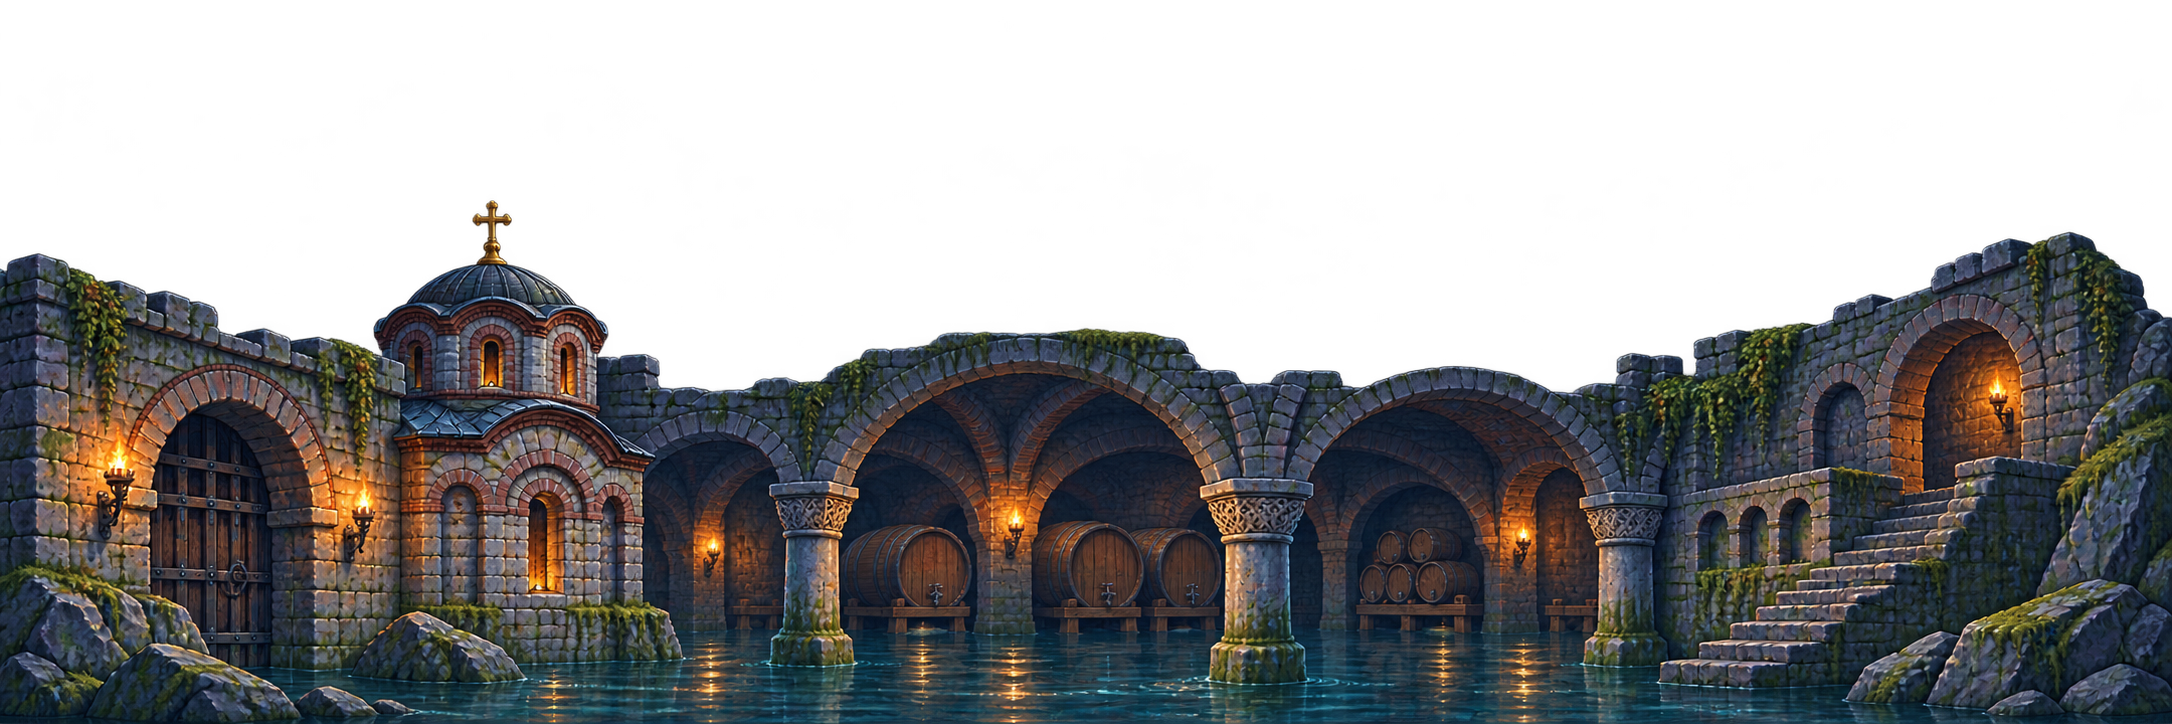
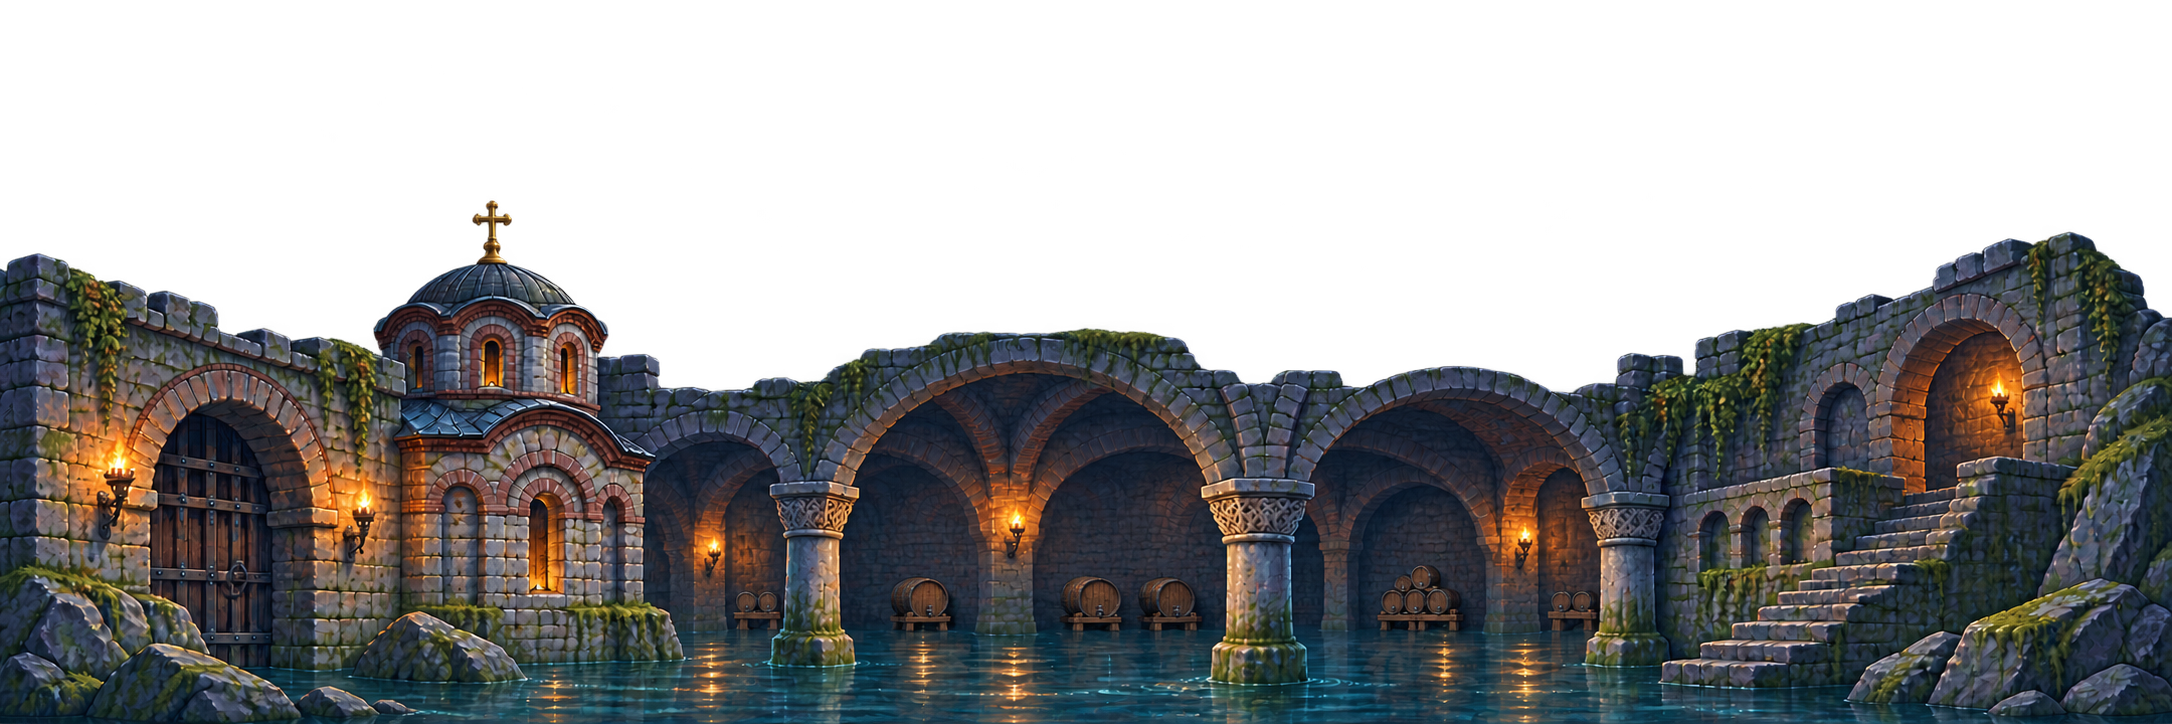
Podrum: nove pozadine u srazmeri (DOPUNA-32)
Codex je preslikao podrum-near i podrum-mid za dan, noć i oluju: burad i police su manji od Marka, a lukovi i vrata viši.
Stare slike su u art/world-pack-01/staro/. Uz to je stigao spisak nesrazmera za ostalih 11 pohoda.
Siluete kočeva su sačuvane, ali još nisu u igri: biće zamenjene slikama u boji.

Changed region(s): [[0.0, 0.2735, 1.0, 1.0], [0.4627, 0.9116, 0.4936, 1.0], [0.0925, 0.7901, 0.1234, 0.8204]]

diff --git a/dist/test.html b/dist/test.html
@@ -43,6 +43,7 @@ a.t kbd{font:700 12px Arial;background:#1a1712;border:1px solid #8a7448;border-r
 <a class="t" href="index.html?go=hasan"><b>Tvrđava: Hasan-aga Oklopnik</b><span>Bos Tvrđave sada ima svoj crtež: pancir od pločica, šlem sa šiljkom, okrugli štit i topuz. Juriša pognute glave kao ovan; navuci ga da se zabije u stub, pa ga udri dok je ošamućen.</span></a>
 <a class="t" href="index.html?go=ognjeni"><b>Podrum: Ognjeni aga</b><span>Bos Podruma sada ima svoj crtež: garav, sa buktinjom i bakarnim ćupom ulja na leđima. Kad prospe ulje, skači na grede; posle stoji povijen i zadihan, i tada ga udri.</span></a>
 <a class="t" href="index.html?go=vino"><b>Podrum: carevi čauši i vino</b><span>Car je zabranio vino uz ramazan. Čauši idu da izbiju slavinu na Markovoj bačvi; ako stignu, pročitaju ti carev ferman nad prolivenim vinom. Stigni ih na vreme, pa pritisni E kraj bačve: Marko pije, bes ti se napuni, a čutura natoči.</span></a>
+<a class="t" href="index.html?go=vino"><b>Podrum: nove pozadine</b><span>Codex je preslikao Podrum (dan, noć i oluja): burad i police u pozadini su sada manji od Marka, a lukovi i vrata viši.</span></a>
 <a class="t" href="index.html?go=sultan"><b>Podrum: sto dukata od cara</b><span>Kod poslednje bačve ti niko ne brani. Popij (E), pa dolazi carev glasnik sa sto dukata: „Idi, Marko, te se napij vina!”</span></a>
 <a class="t" href="index.html?go=sirotinja"><b>Selo: sirotinja kraj puta</b><span>Po pesmi „Marko Kraljević i beg Kostadin”: Marko poštuje sirotinju. Kraj puta sede starica i siroče. Daj im dukate (E), pa ustanu i blagoslove te: rane zarastu, bes poraste, a snaga ti raste neko vreme. U toj sobi nema Turaka.</span></a>
 <a class="t" href="index.html?go=svatovi"><b>Ruševine: mladenci beže u slavlju</b><span>Razbij poslednji kavez: mlada i mladoženja skaču od sreće kraj kola, pa otrče niz drum, a svatovi odigraju za njima. Razbijen kavez ostaje iste veličine kao ceo.</span></a>

diff --git a/art/world-pack-03/export-dopuna32.py b/art/world-pack-03/export-dopuna32.py
@@ -1,0 +1,24 @@
+from pathlib import Path
+from PIL import Image
+import json,sys,shutil,hashlib,numpy as np
+w=Path(__file__).resolve().parent;root=w.parents[1];name,source=sys.argv[1:3]
+j=next(j for j in json.loads((w/'prompts-dopuna32.json').read_text())['jobs'] if j['id']==name)
+run=w/'sources/dopuna32'/name;run.mkdir(parents=True,exist_ok=True);raw=run/'generated.png';assert not raw.exists();shutil.copy2(source,raw)
+im=Image.open(raw).convert('RGBA');assert im.getchannel('A').getextrema()[0]==0
+if j['kind']=='layer':
+ out=w.parent/'world-pack-01/assets'/(name+'.png');old=Image.open(out).convert('RGBA');size=old.size
+ im=im.resize(size,Image.Resampling.LANCZOS)
+ # Keep all previously transparent holes clear after canvas registration.
+ alpha=np.minimum(np.array(im.getchannel('A')),np.array(old.getchannel('A')));im.putalpha(Image.fromarray(alpha))
+ backup=w.parent/'world-pack-01/staro'/(name+'.png');assert out.resolve().is_relative_to(root.resolve()) and backup.resolve().is_relative_to(root.resolve())
+ assert not backup.exists(),'Never overwrite archived original';backup.parent.mkdir(parents=True,exist_ok=True)
+ oldhash=hashlib.sha256(out.read_bytes()).hexdigest();out.replace(backup);assert hashlib.sha256(backup.read_bytes()).hexdigest()==oldhash
+ im.save(out);assert np.all(np.array(im.getchannel('A'))[np.array(old.getchannel('A'))==0]==0)
+ (run/'qa.json').write_text(json.dumps({'size':size,'oldSha256':oldhash,'oldFile':str(backup.relative_to(root)),'originalTransparentPixelsPreserved':True},indent=2))
+ message=f'nov sloj{size[0]}x{size[1]} u art/world-pack-01/assets/{name}.png; original premesten u art/world-pack-01/staro/{name}.png (SHA256 potvrda); originalni providni otvori sacuvani. Bure cilj do '+('80px near.' if '-near' in name else '48px mid.')
+else:
+ out=w/(name+'.png');assert not out.exists();b=im.getchannel('A').point(lambda v:255 if v>16 else 0).getbbox();im=im.crop(b);size=tuple(j['size']);im.thumbnail((size[0]-24,size[1]-40),Image.Resampling.LANCZOS)
+ final=Image.new('RGBA',size);final.paste(im,((size[0]-im.width)//2,size[1]-24-im.height));final.save(out);im=final
+ message=f'PNG RGBA{size[0]}x{size[1]}, tamna udaljena silueta bez krvavih detalja, oslonac dole u sredini y{size[1]-25}, art/world-pack-03/{name}.png.'
+with (w/'STATUS-ANIMACIJE.md').open('a',encoding='utf8') as f:f.write(f'\nDOPUNA-32: {name} — GOTOVO; {message} Ugradjeni image_gen; prompts-dopuna32.json; izvor sources/dopuna32/{name}/.\n')
+print('Saved and logged:',name)

diff --git a/art/world-pack-03/review-sheets-dopuna32.py b/art/world-pack-03/review-sheets-dopuna32.py
@@ -1,0 +1,17 @@
+from pathlib import Path
+from PIL import Image,ImageDraw
+import json,hashlib
+w=Path(__file__).resolve().parent;a=w.parent/'world-pack-01/assets';out=w/'sources/dopuna32/review';out.mkdir(parents=True,exist_ok=True)
+themes=sorted({p.name.split('-')[0] for p in a.glob('*-near.png')}-{'podrum'});records=[]
+for group in range(3):
+ batch=themes[group*4:(group+1)*4];board=Image.new('RGBA',(1448,len(batch)*3*266),(29,39,47,255));d=ImageDraw.Draw(board)
+ for ti,t in enumerate(batch):
+  for vi,v in enumerate(['','-night','-storm']):
+   for col,layer in enumerate(['near','mid']):
+    p=a/(t+'-'+layer+v+'.png');im=Image.open(p).convert('RGBA');records.append({'file':p.name,'sha256':hashlib.sha256(p.read_bytes()).hexdigest(),'size':im.size})
+    x,y=col*724,(ti*3+vi)*266;im=im.resize((724,241),Image.Resampling.LANCZOS);board.alpha_composite(im,(x,y+25));d.text((x+8,y+5),p.name,fill='white')
+    # Comparison ruler: Marko145 near,87 mid at original724-height.
+    h=round((145 if layer=='near' else 87)*241/724);d.line((x+700,y+256,x+700,y+256-h),fill=(240,70,70),width=2)
+ board.convert('RGB').save(out/f'overview-{group+1}.jpg')
+(out/'inventory.json').write_text(json.dumps(records,indent=2))
+print(len(themes),'themes;',len(records),'layers inventoried')

diff --git a/art/world-pack-03/STATUS-ANIMACIJE.md b/art/world-pack-03/STATUS-ANIMACIJE.md
@@ -512,3 +512,51 @@ DOPUNA-30 ZAVRSENO: 6/6 klipova, 38 kadrova. Provera izvoza prosla. Ugradjeni im
 
 DOPUNA-30 ZAVRSENO: 6/6 klipova, 38 kadrova. Provera izvoza prosla. Ugradjeni image_gen, jedan pokusaj po stavci. Katalog catalog-dopuna30.json, promptovi prompts-dopuna30.json, pregled art/animation-pack-04/preview-dopuna30.png. Pri integraciji primeniti manifest.renderScale oko renderAnchor; zum prema putnica-idle, ciljna visina odraslog 405px, oslonac (256,488); dva lika zajedno u oba klipa sirotinje.
 DOPUNA-30: tehnicki uklonjen magenta preliv na velu u oba klipa mlade, bez ponovnog generisanja; originalni izvozi sacuvani u sources/<klip>/before-veil-despill/. Atlas i GIF ponovo izvezeni, provera ponovljena uspesno.
+
+DOPUNA-31: pauza-logor.png — GOTOVO; art/world-pack-03/pauza-logor.png. 16 kadrova768x512, traka12288x512 na vrhu paketa; atlas/manifest/frame_layout/frames/preview.gif u art/animation-pack-04/assets/pauza-logor-16/. Prethodni klip8kad. sacuvan. Petlja12fps. Ugradjeni image_gen, jedan pokusaj; prompts-dopuna31.json, izvor sources/dopuna31/pauza-logor/.
+
+DOPUNA-31: ram-kontrole.png — GOTOVO; art/world-pack-03/ram-kontrole.png. PNG RGBA1500x1000, providnost van siluete, prazan prostor za tekst; stil tamni orah/zlatni detalji, slikano mat. Ugradjeni image_gen, jedan pokusaj; prompts-dopuna31.json, izvor sources/dopuna31/ram-kontrole/.
+
+DOPUNA-31: ram-podesavanja.png — GOTOVO; art/world-pack-03/ram-podesavanja.png. PNG RGBA900x1180, providnost van siluete, prazan prostor za tekst; stil tamni orah/zlatni detalji, slikano mat. Ugradjeni image_gen, jedan pokusaj; prompts-dopuna31.json, izvor sources/dopuna31/ram-podesavanja/.
+
+DOPUNA-31: polje-izbor.png — GOTOVO; art/world-pack-03/polje-izbor.png. PNG RGBA640x72, providnost van siluete, prazan prostor za tekst; stil tamni orah/zlatni detalji, slikano mat. Ugradjeni image_gen, jedan pokusaj; prompts-dopuna31.json, izvor sources/dopuna31/polje-izbor/.
+
+DOPUNA-31: klizac-staza.png — GOTOVO; art/world-pack-03/klizac-staza.png. PNG RGBA640x28, providnost van siluete, prazan prostor za tekst; stil tamni orah/zlatni detalji, slikano mat. Ugradjeni image_gen, jedan pokusaj; prompts-dopuna31.json, izvor sources/dopuna31/klizac-staza/.
+
+DOPUNA-31: klizac-dugme.png — GOTOVO; art/world-pack-03/klizac-dugme.png. PNG RGBA48x48, providnost van siluete, prazan prostor za tekst; stil tamni orah/zlatni detalji, slikano mat. Ugradjeni image_gen, jedan pokusaj; prompts-dopuna31.json, izvor sources/dopuna31/klizac-dugme/.
+
+DOPUNA-31 ZAVRSENO: 6/6 fajlova, logor16kad768x512 (traka12288x512) +5 UI PNG. Dimenzije/providnost/manifest/atlas/GIF provereni. Jedan image_gen pokusaj po fajlu. Katalog catalog-dopuna31.json, preview-dopuna31-ui.jpg; animacija art/animation-pack-04/assets/pauza-logor-16/preview.gif. Stariji8kad. klip netaknut.
+
+DOPUNA-32: podrum-near — GOTOVO; nov sloj2172x724 u art/world-pack-01/assets/podrum-near.png; original premesten u art/world-pack-01/staro/podrum-near.png (SHA256 potvrda); originalni providni otvori sacuvani. Bure cilj do 80px near. Ugradjeni image_gen; prompts-dopuna32.json; izvor sources/dopuna32/podrum-near/.
+
+DOPUNA-32: podrum-near-night — GOTOVO; nov sloj2172x724 u art/world-pack-01/assets/podrum-near-night.png; original premesten u art/world-pack-01/staro/podrum-near-night.png (SHA256 potvrda); originalni providni otvori sacuvani. Bure cilj do 80px near. Ugradjeni image_gen; prompts-dopuna32.json; izvor sources/dopuna32/podrum-near-night/.
+
+DOPUNA-32: podrum-near-storm — GOTOVO; nov sloj2172x724 u art/world-pack-01/assets/podrum-near-storm.png; original premesten u art/world-pack-01/staro/podrum-near-storm.png (SHA256 potvrda); originalni providni otvori sacuvani. Bure cilj do 80px near. Ugradjeni image_gen; prompts-dopuna32.json; izvor sources/dopuna32/podrum-near-storm/.
+
+DOPUNA-32: podrum-mid — GOTOVO; nov sloj2172x724 u art/world-pack-01/assets/podrum-mid.png; original premesten u art/world-pack-01/staro/podrum-mid.png (SHA256 potvrda); originalni providni otvori sacuvani. Bure cilj do 48px mid. Ugradjeni image_gen; prompts-dopuna32.json; izvor sources/dopuna32/podrum-mid/.
+
+DOPUNA-32: podrum-mid-night — GOTOVO; nov sloj2172x724 u art/world-pack-01/assets/podrum-mid-night.png; original premesten u art/world-pack-01/staro/podrum-mid-night.png (SHA256 potvrda); originalni providni otvori sacuvani. Bure cilj do 48px mid. Ugradjeni image_gen; prompts-dopuna32.json; izvor sources/dopuna32/podrum-mid-night/.
+
+DOPUNA-32: podrum-mid-storm — GOTOVO; nov sloj2172x724 u art/world-pack-01/assets/podrum-mid-storm.png; original premesten u art/world-pack-01/staro/podrum-mid-storm.png (SHA256 potvrda); originalni providni otvori sacuvani. Bure cilj do 48px mid. Ugradjeni image_gen; prompts-dopuna32.json; izvor sources/dopuna32/podrum-mid-storm/.
+
+DOPUNA-32: podrum-mid-night dodatno korigovan centralni veliki sud na malo bure; prvi izvoz sacuvan u sources/dopuna32/podrum-mid-night/initial-export.png; izvorni original ostaje u world-pack-01/staro/.
+
+DOPUNA-32: PREGLED OSTALIH POHODA ? GOTOVO, 66 slojeva, samo spisak; bez izmena slika. Vizuelna procena, otvori/ograde u panorami uslovni nalazi; precizna potvrda zahteva njihovu razmeru pri prikazu u igri.
+DOPUNA-32 pregled: **klisura** — near (dan/noć/oluja): vrata građevina na oba boka i ograda visećeg mosta deluju sitno prema reperu Marko145px; mid: otvori naselja levo/desno još sitniji od repera87px. Nije uočeno preveliko bure ili polica.
+DOPUNA-32 pregled: **manastir** — near: portali manastira desno, naročito dan/noć, deluju premali za Marka145px ako su pristupačan prostor; mid: vrata unutar manastirskog kompleksa su minijaturna prema87px. Velika stabla i kule nisu sama po sebi greška razmere.
+DOPUNA-32 pregled: **mocvara** — near: otvori kuća/leva arkada i ograda drvenih prelaza zahtevaju proveru jer su niski prema145px; mid: mala vrata ruševina i kućica prema87px. Nema jasno prevelikog skladišnog predmeta.
+DOPUNA-32 pregled: **pecina** — near: burad ispred desnog rudničkog ulaza (dan, takođe noć/oluja) jesu kandidati za proveru granice80px; mid: burad u levim udubljenjima/objektima prema48px. Vrata kućica sitnija od velikih pećinskih otvora; ne smanjivati same pećinske svodove.
+DOPUNA-32 pregled: **prevoj** — near: otvori desne kule i mala vrata uz stazu deluju premali za145px; mid: vrata kuća i prolazi zidina prema87px. Kamenje, sneg i visina kula nemaju pouzdan problem razmere.
+DOPUNA-32 pregled: **reka** — near: vrata i prozori mlinova na levom/desnom boku, kao i niska ograda prelaza, deluju minijaturno prema145px; mid: vrata mlina levo i otvori mosta prema87px. Vodeni točak može biti velik i nije automatski nesrazmeran.
+DOPUNA-32 pregled: **rudnik** — near: rudarska kolica i burad uz šine, levo i desno, proveriti prema80px; mid: kolica ispred levog ulaza i burad uz desnu građevinu prema48px. Predmeti su ovde najjasniji kandidati za merenje; sami rudnički portali treba da ostanu viši od lika.
+DOPUNA-32 pregled: **rusevine** — near: mali niski lukovi u nizu uz drum levo/sredina deluju niži od145px; mid: niski arkadni prolazi i ulazi manjih zdanja prema87px. Veliki obrušeni svodovi i tornjevi mogu ostati veliki.
+DOPUNA-32 pregled: **selo** — near: vrata kuća na krajevima i seoske ograde duž puta deluju premali u odnosu na145px; mid: vrata i ograde sela ispod crkve prema87px. Nije uočen predmet koji bi trebalo smanjivati kao podrumsku burad.
+DOPUNA-32 pregled: **suma** — near: mala samostalna kamena vrata desno i vrata kuće deluju premali prema145px; mid: ulazi kuća levo/desno i niski luk mosta prema87px. Deblo i korenje smeju biti masivni; njih ne tretirati kao burad.
+DOPUNA-32 pregled: **tvrdjava** — near: bočni mali prolazi i palisadna ograda/šiljci pri dnu deluju sitno prema145px; mid: ulazi tvrđave i drvena ograda opsadnih položaja prema87px. Tornjevi, bedemi i veliki opsadni uređaji nisu automatski preveliki.
+
+DOPUNA-32: prop-kolci-glave — GOTOVO; PNG RGBA768x768, tamna udaljena silueta bez krvavih detalja, oslonac dole u sredini y743, art/world-pack-03/prop-kolci-glave.png. Ugradjeni image_gen; prompts-dopuna32.json; izvor sources/dopuna32/prop-kolci-glave/.
+DOPUNA-32: prop-kolac-nabijen — NIJE USPELO; image_gen HTTP400 moderation_blocked, safety_violations violence/self-harm (output moderation), request d18943ec-0212-4baf-b1db-b38178e17c00. PNG nije napravljen; prompt sacuvan u prompts-dopuna32.json. Nije limit kredita.
+
+DOPUNA-32: prop-kolci-red — GOTOVO; PNG RGBA1536x512, tamna udaljena silueta bez krvavih detalja, oslonac dole u sredini y487, art/world-pack-03/prop-kolci-red.png. Ugradjeni image_gen; prompts-dopuna32.json; izvor sources/dopuna32/prop-kolci-red/.
+
+DOPUNA-32 REZULTAT: 6/6 slojeva Podruma gotovo, originali u world-pack-01/staro/ potvrdaSHA256, providni otvori sacuvani. Pregled11pohoda/66slojeva samo spisak, njihove slike potvrdeno nepromenjene. Kolci2/3: prop-kolci-glave i prop-kolci-red gotovo; prop-kolac-nabijen odbio image_gen safety filter violence/self-harm. Katalog catalog-dopuna32.json; provere validation-dopuna32.json; pregledi preview-dopuna32-podrum.jpg i preview-dopuna32-kolci.jpg.

diff --git a/art/world-pack-03/pregled-srazmere-dopuna32.md b/art/world-pack-03/pregled-srazmere-dopuna32.md
@@ -1,0 +1,15 @@
+# Pregled ostalih pohoda — samo spisak
+
+Pregledana su 66 PNG sloja: near/mid za 11 pohoda, dan/noć/oluja. Referentna visina odraslog lika: near145px, mid87px na sloju724px visine. Granice bureta: near80px, mid48px. Ovo su vizuelni nalazi i kandidati za proveru u igri, ne izmerene dimenzije svih predmeta. Arhitektura naslikana kao daleka panorama može namerno biti sitna; ako se koristi kao neposredan prostor istog sloja, pomenuti otvori nisu u srazmeri. Slike nisu menjane.
+
+- **klisura** — near (dan/noć/oluja): vrata građevina na oba boka i ograda visećeg mosta deluju sitno prema reperu Marko145px; mid: otvori naselja levo/desno još sitniji od repera87px. Nije uočeno preveliko bure ili polica.
+- **manastir** — near: portali manastira desno, naročito dan/noć, deluju premali za Marka145px ako su pristupačan prostor; mid: vrata unutar manastirskog kompleksa su minijaturna prema87px. Velika stabla i kule nisu sama po sebi greška razmere.
+- **mocvara** — near: otvori kuća/leva arkada i ograda drvenih prelaza zahtevaju proveru jer su niski prema145px; mid: mala vrata ruševina i kućica prema87px. Nema jasno prevelikog skladišnog predmeta.
+- **pecina** — near: burad ispred desnog rudničkog ulaza (dan, takođe noć/oluja) jesu kandidati za proveru granice80px; mid: burad u levim udubljenjima/objektima prema48px. Vrata kućica sitnija od velikih pećinskih otvora; ne smanjivati same pećinske svodove.
+- **prevoj** — near: otvori desne kule i mala vrata uz stazu deluju premali za145px; mid: vrata kuća i prolazi zidina prema87px. Kamenje, sneg i visina kula nemaju pouzdan problem razmere.
+- **reka** — near: vrata i prozori mlinova na levom/desnom boku, kao i niska ograda prelaza, deluju minijaturno prema145px; mid: vrata mlina levo i otvori mosta prema87px. Vodeni točak može biti velik i nije automatski nesrazmeran.
+- **rudnik** — near: rudarska kolica i burad uz šine, levo i desno, proveriti prema80px; mid: kolica ispred levog ulaza i burad uz desnu građevinu prema48px. Predmeti su ovde najjasniji kandidati za merenje; sami rudnički portali treba da ostanu viši od lika.
+- **rusevine** — near: mali niski lukovi u nizu uz drum levo/sredina deluju niži od145px; mid: niski arkadni prolazi i ulazi manjih zdanja prema87px. Veliki obrušeni svodovi i tornjevi mogu ostati veliki.
+- **selo** — near: vrata kuća na krajevima i seoske ograde duž puta deluju premali u odnosu na145px; mid: vrata i ograde sela ispod crkve prema87px. Nije uočen predmet koji bi trebalo smanjivati kao podrumsku burad.
+- **suma** — near: mala samostalna kamena vrata desno i vrata kuće deluju premali prema145px; mid: ulazi kuća levo/desno i niski luk mosta prema87px. Deblo i korenje smeju biti masivni; njih ne tretirati kao burad.
+- **tvrdjava** — near: bočni mali prolazi i palisadna ograda/šiljci pri dnu deluju sitno prema145px; mid: ulazi tvrđave i drvena ograda opsadnih položaja prema87px. Tornjevi, bedemi i veliki opsadni uređaji nisu automatski preveliki.
